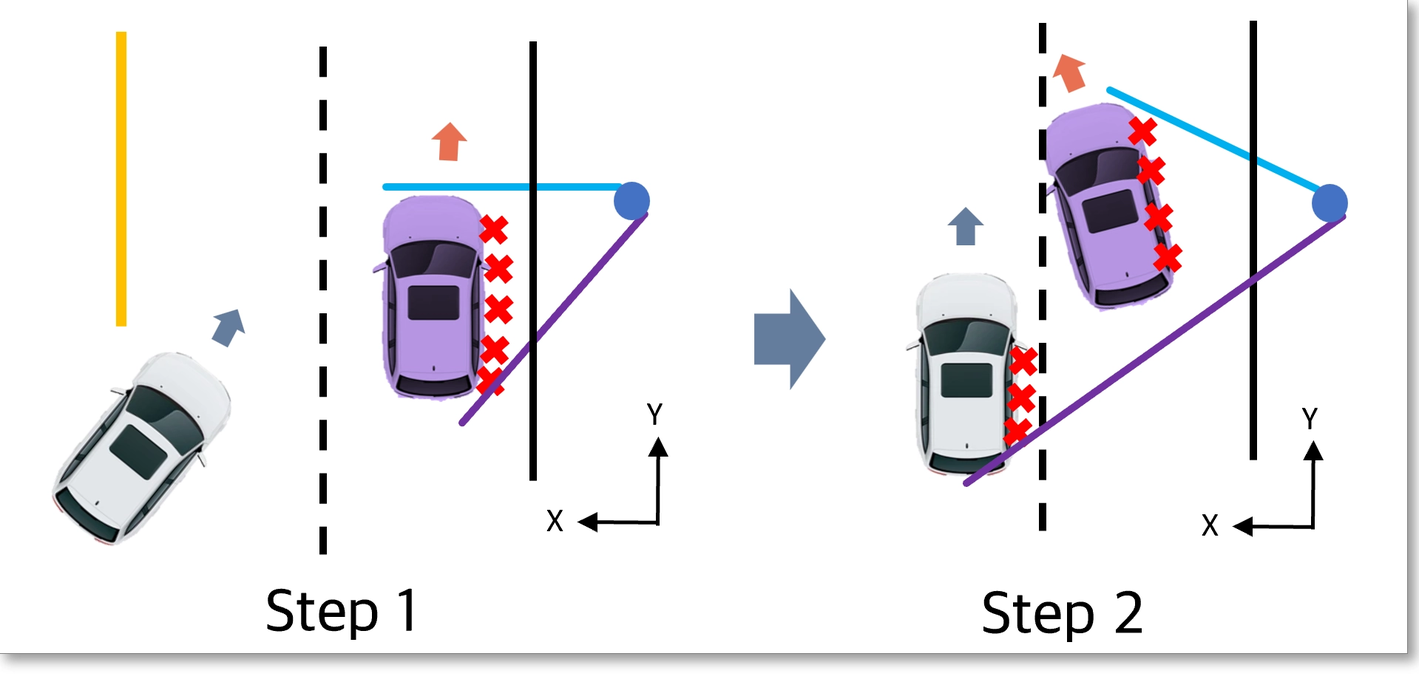
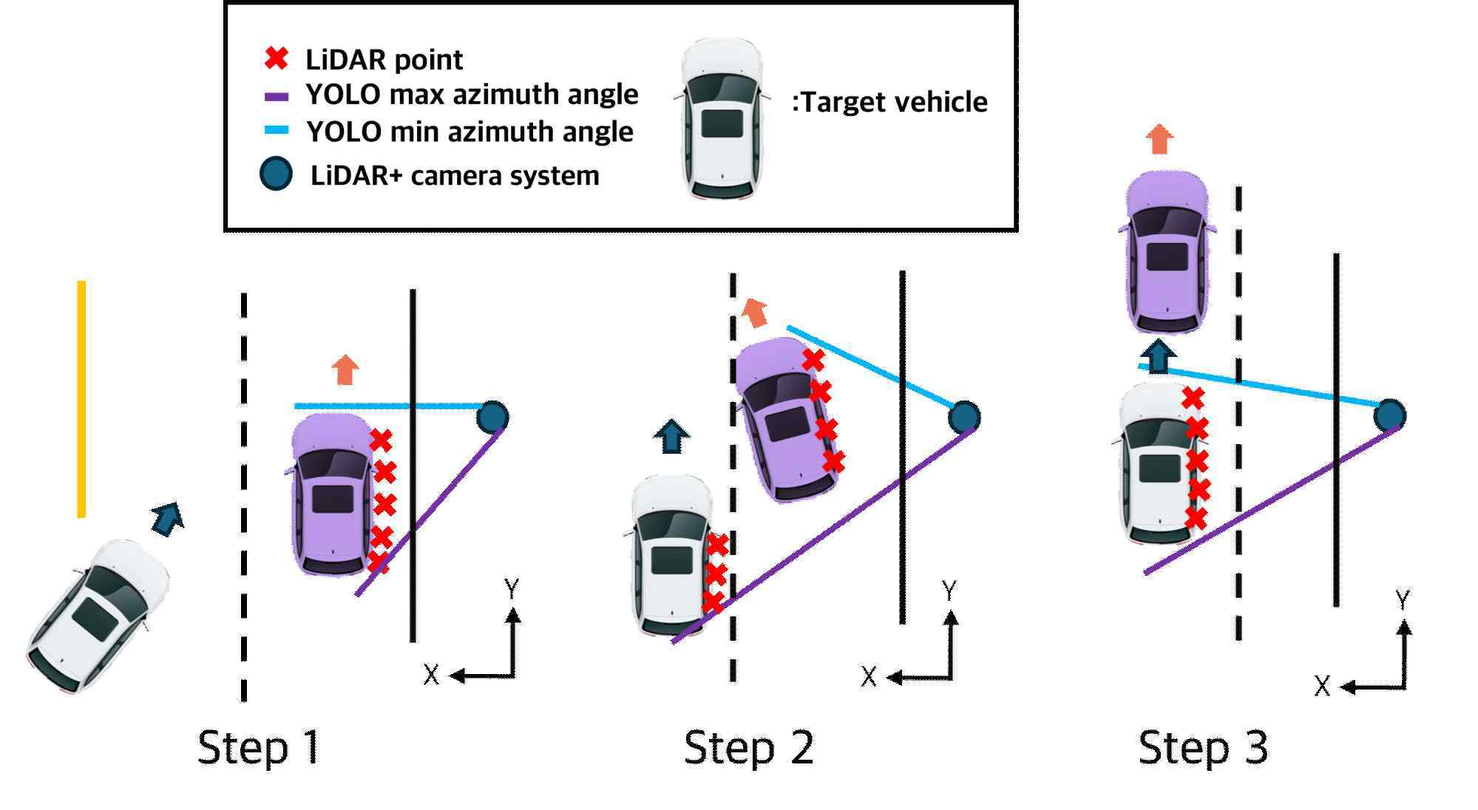
Sync sensor fusion guide and IMU navigation evidence

diff --git a/portfolio/projects/sensor-fusion.html b/portfolio/projects/sensor-fusion.html
@@ -8,10 +8,10 @@
   <link rel="canonical" href="https://neberrein.github.io/projects/sensor-fusion.html">
   <meta property="og:type" content="website"><meta property="og:title" content="강화학습 기반 카메라-라이다 센서융합 차량 추적 | 곽민재"><meta property="og:description" content="상황별 관측 후보를 DQN으로 선택하고 IMM으로 차량 상태를 추정한 석사 연구"><meta property="og:url" content="https://neberrein.github.io/projects/sensor-fusion.html"><meta property="og:image" content="https://neberrein.github.io/assets/images/sensor-fusion-field.png">
   <link rel="icon" href="../assets/favicon.svg" type="image/svg+xml">
-  <link rel="stylesheet" href="../assets/site.css?v=layout-20260913">
+  <link rel="stylesheet" href="../assets/site.css?v=research-20260913">
   <script src="../assets/site.js" defer></script>
 </head>
-<body>
+<body class="sensor-fusion-page">
 <a class="skip-link" href="#main">본문 바로가기</a>
 <header class="site-header detail-header"><a class="brand" href="../index.html">곽민재 <span>PORTFOLIO</span></a><nav class="primary-nav" aria-label="상세 페이지 메뉴"><a href="../index.html#projects">프로젝트</a><a href="../index.html#research">논문, 특허</a></nav></header>
 <main id="main">
@@ -19,72 +19,75 @@
     <a class="back-link" href="../index.html#projects">← 프로젝트 목록</a>
     <p class="case-label">교육부, 한국연구재단 석사과정생 연구장려금</p>
     <h1>강화학습 기반 카메라-라이다 센서융합 차량 추적</h1>
-    <p class="case-subtitle">교차로 도로변의 단안 카메라와 2D 라이다로 차량을 검출하고, 센서 상태에 따라 가장 신뢰할 수 있는 코너점을 골라 중심 위치와 속도, 진행방향을 추정한 연구.</p>
+    <p class="case-subtitle">교차로 도로변의 단안 카메라와 2D 라이다로 차량을 검출하고, DQN이 상황에 적합한 차량 코너점을 선택하도록 설계했습니다. 선택된 관측값은 IMM에 입력해 차량의 중심 위치, 속도와 진행방향을 연속 추정했습니다.</p>
     <aside class="credential-panel" aria-label="연구과제 정보">
       <div><span>연구과제</span><strong>교차로 차량 움직임 추정을 위한 강화학습 기반의 단안 카메라와 2D 라이다 센서 융합 알고리즘 개발</strong></div>
       <dl><div><dt>지원기관</dt><dd>교육부, 한국연구재단</dd></div><div><dt>사업</dt><dd>석사과정생 연구장려금</dd></div><div><dt>기간</dt><dd>2024.09–2025.08</dd></div><div><dt>역할</dt><dd>연구책임자</dd></div></dl>
     </aside>
-    <dl class="case-facts"><div><dt>연구 범위</dt><dd>기획, 알고리즘, 시뮬레이션, 현장검증</dd></div><div><dt>핵심 기술</dt><dd>YOLO, DBSCAN, RANSAC, DQN, IMM</dd></div><div><dt>검증</dt><dd>MATLAB 시뮬레이션, 서울 마곡동 교차로</dd></div><div><dt>성과</dt><dd>석사학위논문, ICROS 제1저자 발표, 특허</dd></div></dl>
+    <dl class="case-facts"><div><dt>연구 범위</dt><dd>기획, 알고리즘, 시뮬레이션, 현장검증</dd></div><div><dt>핵심 기술</dt><dd>YOLO, DBSCAN, RANSAC, DQN, IMM</dd></div><div><dt>검증</dt><dd>MATLAB 시뮬레이션, 서울 마곡동 교차로</dd></div><div><dt>성과</dt><dd>석사학위논문, ICROS 2025 제1저자 구두발표, 특허 출원 공동발명</dd></div></dl>
   </section>
 
   <section class="case-section"><div class="section-shell case-layout"><div><span class="case-section-label">01 / QUESTION</span><h2>연구 문제</h2></div><div class="case-body">
-    <p>고정 규칙 기반 융합은 가림, 급가감속, 라이다 이상치처럼 관측 품질이 바뀌는 구간에서 잘못된 후보를 계속 선택했다. 핵심은 센서를 하나로 합치는 일이 아니라, 매 시점 어떤 관측을 믿을지 결정하는 문제였다.</p>
-    <div class="issue-grid"><article><span>가림</span><strong>앞차와 뒤차 관측의 혼입</strong><p>표적 차량의 일부가 가려지며 다른 차량의 점군을 선택하는 현상</p></article><article><span>비동기</span><strong>라이다 10 Hz, 카메라 30 fps</strong><p>동일 시점으로 보이는 두 센서 사이의 입력 시차 발생</p></article><article><span>이상치</span><strong>단일 후보 의존의 취약성</strong><p>RANSAC 교점이나 최근접점 하나를 고정 사용했을 때 오류 지속</p></article><article><span>비용</span><strong>저가 센서 구성의 성능 검증</strong><p>단안 카메라와 2D 라이다만으로 현장 상태추정 성능 확보</p></article></div>
+    <p>카메라와 라이다를 함께 사용해도 차량의 가림, 자세 변화와 센서 노이즈에 따라 각 관측 방법의 정확도가 달라졌습니다. 핵심은 센서를 단순히 하나로 합치는 것이 아니라, 매 시점 어떤 관측을 차량 위치 추정에 사용할지 결정하는 문제였습니다.</p>
+    <div class="issue-grid"><article><span>가림</span><strong>목표 차량 관측 손실</strong><p>다른 차량이 표적의 일부 또는 전체를 가리면서 카메라와 라이다 관측 품질이 달라짐</p></article><article><span>자세 변화</span><strong>보이는 차량 면이 달라짐</strong><p>직진과 회전, 센서 상대 위치에 따라 라이다가 관측하는 차량 면과 영상 경계가 계속 변화</p></article><article><span>이상치</span><strong>단일 후보 의존의 취약성</strong><p>하나의 코너 계산 방법을 고정 사용하면 잘못된 관측이 이후 추적 오차로 이어질 수 있음</p></article><article><span>비용</span><strong>저비용 센서 구성</strong><p>단안 카메라와 2D 라이다만으로 실제 교차로에서 차량 상태추정 성능을 검증</p></article></div>
   </div></div></section>
 
-  <section class="case-section"><div class="section-shell case-layout"><div><span class="case-section-label">02 / SYSTEM</span><h2>판단 구조</h2></div><div class="case-body">
-    <figure class="research-figure framework-figure"><img loading="lazy" decoding="async" src="../assets/images/sensor-framework.png" alt="카메라와 라이다 관측 후보를 DQN이 선택하고 IMM이 차량 상태를 추정하는 전체 프레임워크"><figcaption>제안 프레임워크. DQN의 관측 선택 결과로 IMM의 CVP와 CTP 운동모델을 갱신</figcaption></figure>
-    <div class="flow-ribbon" aria-label="센서융합 차량 추적 처리 흐름"><article><span>01</span><strong>차량 검출</strong><small>YOLO와 2D 라이다</small></article><b>→</b><article><span>02</span><strong>코너점 계산</strong><small>센서와 예측 기반 5개</small></article><b>→</b><article><span>03</span><strong>기준점 선택</strong><small>DQN의 상황별 판단</small></article><b>→</b><article><span>04</span><strong>연속 추정</strong><small>IMM의 CVP, CTP 결합</small></article><b>→</b><article><span>05</span><strong>차량 상태</strong><small>중심, 속도, 진행방향</small></article></div>
-    <div class="media-pair sensor-setup-pair"><figure class="research-figure"><img src="../assets/images/sensor-roadside-system.png" alt="상단 단안 카메라와 하단 2D 라이다로 구성한 도로변 센서 플랫폼"><figcaption>도로변 센서 플랫폼. 상단 단안 카메라, 하단 Slamtec Mapper 2D 라이다</figcaption></figure><figure class="research-figure"><img src="../assets/images/sensor-ground-truth-system.png" alt="차량 지붕 중앙 RTK-GPS 안테나와 수신기 구성"><figcaption>시험차량. 지붕 중앙 RTK-GPS 안테나로 차량 중심 기준값 취득</figcaption></figure></div>
+  <section class="case-section"><div class="section-shell case-layout"><div><span class="case-section-label">02 / SYSTEM</span><h2>차량 추적 프레임워크</h2></div><div class="case-body">
+    <figure class="research-figure framework-figure"><img loading="lazy" decoding="async" src="../assets/images/sensor-framework.png" alt="카메라와 라이다 관측 후보를 DQN이 선택하고 IMM이 차량 상태를 추정하는 전체 프레임워크"><figcaption>카메라와 라이다로 차량을 검출하고 여러 코너 후보를 생성한 뒤, DQN이 현재 센서 상태에 적합한 후보를 선택합니다. 선택된 코너점은 IMM의 측정값으로 사용해 차량 중심의 위치, 속도와 진행방향을 추정합니다.</figcaption></figure>
+    <div class="flow-ribbon" aria-label="센서융합 차량 추적 처리 흐름"><article><span>01</span><strong>차량 검출</strong><small>YOLO와 2D 라이다</small></article><b>→</b><article><span>02</span><strong>코너점 계산</strong><small>센서와 예측 기반 5개 후보</small></article><b>→</b><article><span>03</span><strong>기준점 선택</strong><small>DQN의 상황별 판단</small></article><b>→</b><article><span>04</span><strong>연속 추정</strong><small>IMM의 CVP, CTP 결합</small></article><b>→</b><article><span>05</span><strong>차량 상태</strong><small>중심, 속도, 진행방향</small></article></div>
   </div></div></section>
 
   <section class="case-section"><div class="section-shell case-layout"><div><span class="case-section-label">03 / OBSERVATION</span><h2>상황별 차량 코너점 추정</h2></div><div class="case-body">
-    <p>추적 기준점은 차량의 <strong>전방 우측 모서리</strong>로 통일했다. 카메라 바운딩박스의 양쪽 경계와 라이다가 검출한 차량 면이 만나는 위치이며, 차량이 회전해 보이는 면이 달라져도 동일한 물리 지점을 비교하기 위한 선택이다.</p>
+    <p>차량 위치를 프레임마다 일관되게 비교하기 위해 전방 우측 코너를 공통 기준점으로 사용했습니다. 다만 차량의 방향, 가림과 센서 관측 상태에 따라 같은 코너를 가장 잘 표현하는 정보가 달라지므로, 5개의 코너 후보를 계산하고 DQN이 현재 상황에 적합한 하나를 선택하도록 구성했습니다.</p>
     <div class="observation-layout">
-      <figure class="research-figure"><img src="../assets/images/sensor-vehicle-geometry.png" alt="차량 중심과 전방 우측 모서리 기준점의 기하 관계"><figcaption>센서가 찾는 모서리와 최종 추정 대상인 차량 중심의 관계</figcaption></figure>
-      <div class="observation-copy"><h3>한 가지 식에 고정하지 않은 이유</h3><p>차량의 두 면이 모두 보이는지, 영상의 어느 경계가 선명한지, 가림으로 센서값을 쓸 수 있는지가 프레임마다 달라진다. 따라서 같은 코너점을 서로 다른 방식으로 계산하고 DQN이 현재 입력에 맞는 하나를 선택하도록 구성했다.</p><div class="formula-inline">z = [x<sub>c</sub> + r cos(α−θ), y<sub>c</sub> + r sin(α−θ)]<sup>T</sup></div><small>선택된 코너점 z를 차량 폭, 길이, 진행방향으로 보정해 중심 상태로 변환</small></div>
+      <figure class="research-figure"><img loading="lazy" decoding="async" src="../assets/images/sensor-vehicle-geometry.png" alt="차량 중심과 전방 우측 모서리 기준점의 기하 관계"><figcaption>차량 중심과 추적 기준점으로 사용한 전방 우측 코너의 기하 관계</figcaption></figure>
+      <div class="observation-copy"><h3>한 가지 식에 고정하지 않은 이유</h3><p>차량의 두 면이 모두 보이는지, 영상의 어느 경계가 유효한지, 가림으로 센서값이 불안정한지가 프레임마다 달라집니다. 따라서 같은 전방 우측 코너를 여러 방식으로 계산하고 DQN이 현재 센서 상태에 맞는 후보를 선택하도록 했습니다.</p><p>선택된 코너점은 IMM의 측정값으로 사용하며, CVP와 CTP 차량 운동모델을 결합해 중심 위치, 속도와 진행방향을 추정했습니다.</p></div>
     </div>
     <div class="candidate-visual-grid" role="list" aria-label="차량 코너점 계산 방법 다섯 가지">
       <article role="listitem">
         <svg viewBox="0 0 260 150" role="img" aria-label="차량 전면과 측면의 RANSAC 두 선이 만나는 코너점"><polygon points="225,72 123,22 123,128" fill="#dfece7"/><rect x="78" y="35" width="54" height="82" rx="14" fill="#d7dde2" stroke="#10283f" stroke-width="3"/><rect x="88" y="48" width="34" height="22" rx="7" fill="#91a3b2"/><path d="M48 30H155M132 20V132" stroke="#d39a1d" stroke-width="5"/><g fill="#d83b32"><circle cx="104" cy="30" r="5"/><circle cx="120" cy="30" r="5"/><circle cx="132" cy="48" r="5"/><circle cx="132" cy="65" r="5"/><circle cx="132" cy="82" r="5"/></g><circle cx="132" cy="30" r="8" fill="#148d87"/><circle cx="225" cy="72" r="10" fill="#3f72bd" stroke="#10283f" stroke-width="3"/></svg>
-        <span>01</span><strong>RANSAC 두 선의 교점</strong><p>차량의 전면과 측면이 함께 보일 때</p>
+        <span>01</span><strong>RANSAC 두 선의 교차점</strong><p>차량 전면과 측면을 나타내는 두 개의 유효 선 모델이 확보될 때</p>
       </article>
       <article role="listitem">
         <svg viewBox="0 0 260 150" role="img" aria-label="YOLO 우측 경계와 RANSAC 차량 면이 만나는 코너점"><polygon points="225,48 155,43 155,112" fill="#dfece7"/><rect x="55" y="57" width="105" height="52" rx="15" fill="#d7dde2" stroke="#10283f" stroke-width="3"/><rect x="70" y="66" width="28" height="34" rx="6" fill="#91a3b2"/><path d="M160 40V118" stroke="#d39a1d" stroke-width="5"/><path d="M225 48L160 105" stroke="#6f43a3" stroke-width="5"/><g fill="#d83b32"><circle cx="160" cy="58" r="5"/><circle cx="160" cy="75" r="5"/><circle cx="160" cy="92" r="5"/></g><circle cx="160" cy="105" r="8" fill="#148d87"/><circle cx="225" cy="48" r="10" fill="#3f72bd" stroke="#10283f" stroke-width="3"/></svg>
-        <span>02</span><strong>YOLO 우측 경계와 RANSAC 선</strong><p>영상 우측 경계가 더 선명할 때</p>
+        <span>02</span><strong>YOLO 최대 방위각 + RANSAC</strong><p>YOLO 최대 방위각 경계와 RANSAC 차량 면을 함께 사용할 때</p>
       </article>
       <article role="listitem">
         <svg viewBox="0 0 260 150" role="img" aria-label="YOLO 좌측 경계와 RANSAC 차량 면이 만나는 코너점"><polygon points="225,98 145,34 145,116" fill="#dfece7"/><rect x="92" y="28" width="58" height="92" rx="15" fill="#d7dde2" stroke="#10283f" stroke-width="3"/><rect x="102" y="42" width="38" height="24" rx="6" fill="#91a3b2"/><path d="M150 28V126" stroke="#d39a1d" stroke-width="5"/><path d="M225 98L150 34" stroke="#18a6cf" stroke-width="5"/><g fill="#d83b32"><circle cx="150" cy="52" r="5"/><circle cx="150" cy="71" r="5"/><circle cx="150" cy="90" r="5"/></g><circle cx="150" cy="34" r="8" fill="#148d87"/><circle cx="225" cy="98" r="10" fill="#3f72bd" stroke="#10283f" stroke-width="3"/></svg>
-        <span>03</span><strong>YOLO 좌측 경계와 RANSAC 선</strong><p>영상 좌측 경계가 더 선명할 때</p>
+        <span>03</span><strong>YOLO 최소 방위각 + RANSAC</strong><p>YOLO 최소 방위각 경계와 RANSAC 차량 면을 함께 사용할 때</p>
       </article>
       <article role="listitem">
         <svg viewBox="0 0 260 150" role="img" aria-label="회전 차량의 횡방향 최근접 라이다 점"><g transform="rotate(-28 104 84)"><rect x="64" y="52" width="90" height="55" rx="15" fill="#d7dde2" stroke="#10283f" stroke-width="3"/><rect x="82" y="60" width="28" height="38" rx="6" fill="#91a3b2"/></g><g fill="#d83b32"><circle cx="152" cy="54" r="5"/><circle cx="164" cy="64" r="5"/><circle cx="173" cy="77" r="5"/></g><path d="M212 35V112" stroke="#3f72bd" stroke-width="2"/><path d="M212 81H174" stroke="#148d87" stroke-width="4" stroke-dasharray="5 4"/><circle cx="174" cy="81" r="8" fill="#148d87"/><circle cx="212" cy="35" r="10" fill="#3f72bd" stroke="#10283f" stroke-width="3"/></svg>
-        <span>04</span><strong>횡방향 최근접 라이다 점</strong><p>회전 중에도 가까운 물리점이 유지될 때</p>
+        <span>04</span><strong>횡방향 최근접 라이다 점</strong><p>차량 회전 시에도 사용할 수 있는 물리적 기준점이 필요할 때</p>
       </article>
       <article role="listitem">
         <svg viewBox="0 0 260 150" role="img" aria-label="가림 중 IMM 운동모델이 예측한 코너점"><rect x="55" y="55" width="110" height="52" rx="15" fill="#d7dde2" stroke="#10283f" stroke-width="3" opacity=".55"/><rect x="70" y="64" width="30" height="34" rx="6" fill="#91a3b2" opacity=".65"/><path d="M38 121C84 105 131 91 188 78" fill="none" stroke="#7b8b96" stroke-width="3" stroke-dasharray="7 6"/><circle cx="166" cy="81" r="9" fill="#148d87"/><circle cx="215" cy="50" r="10" fill="#3f72bd" stroke="#10283f" stroke-width="3"/><path d="M215 50L166 81" stroke="#3f72bd" stroke-width="2" stroke-dasharray="4 5"/><text x="163" y="70" text-anchor="middle" font-family="Georgia,serif" font-size="15" fill="#10283f">x̂ₖ|ₖ₋₁</text></svg>
-        <span>05</span><strong>IMM 예측점</strong><p>가림이나 이상치로 센서 관측이 불안정할 때</p>
+        <span>05</span><strong>IMM 예측점</strong><p>가림이나 센서 이상치로 현재 관측이 불안정할 때</p>
       </article>
     </div>
+    <aside class="selection-note"><h3>DQN 선택 기준</h3><p>DQN은 라이다 특징점, YOLO 방위각 변화, 라이다 포인트 수와 평균거리 등 현재 센서 상태를 입력받아 5개 후보 중 하나를 선택했습니다.</p></aside>
   </div></div></section>
 
   <section class="case-section alt-section"><div class="section-shell case-layout"><div><span class="case-section-label">04 / SIMULATION</span><h2>시뮬레이션 결과</h2></div><div class="case-body">
-    <div class="plot-grid"><figure class="plot-card"><img src="../assets/images/sensor-sim-corner.png" alt="좌회전 시뮬레이션의 코너점 추정"><figcaption><strong>상황별 기준점 선택</strong> 기준 코너점과 프레임별 선택 결과의 궤적</figcaption></figure><figure class="plot-card"><img src="../assets/images/sensor-sim-center.png" alt="좌회전 시뮬레이션의 중심 위치 추정"><figcaption><strong>IMM 위치추정</strong> 전방 우측 코너점을 차량 중심 상태로 변환한 궤적</figcaption></figure></div>
-    <div class="table-wrap"><table class="metric-table"><thead><tr><th>대표 시나리오</th><th>위치 RMSE</th><th>속도 RMSE</th><th>진행방향 RMSE</th></tr></thead><tbody><tr><td>좌회전</td><td><strong>0.054 m</strong></td><td>0.468 m/s</td><td>0.041°</td></tr><tr><td>직진</td><td><strong>0.012 m</strong></td><td>0.419 m/s</td><td>0.001°</td></tr></tbody></table></div>
+    <figure class="research-figure simulation-environment"><img loading="lazy" decoding="async" src="../assets/images/sensor-simulation-environment.png" alt="MATLAB 교차로 시뮬레이션에서 차량 면과 라이다 빔의 교차점 및 카메라 방위각을 생성한 화면"><figcaption>MATLAB 차량-센서 시뮬레이션 환경. 실제 2D 라이다의 센서 특성과 차량 기하를 반영해 라이다 포인트와 카메라 방위각을 생성하고, Pure Pursuit로 직진과 좌회전 차량 거동을 구현했습니다.</figcaption></figure>
+    <div class="plot-grid"><figure class="plot-card"><img loading="lazy" decoding="async" src="../assets/images/sensor-sim-corner.png" alt="좌회전 시뮬레이션의 코너점 추정"><figcaption><strong>DQN 기반 차량 코너 추정</strong> 실제 코너와 프레임별 선택 결과 비교</figcaption></figure><figure class="plot-card"><img loading="lazy" decoding="async" src="../assets/images/sensor-sim-center.png" alt="좌회전 시뮬레이션의 중심 위치 추정"><figcaption><strong>IMM 기반 차량 중심 위치 추정</strong> 실제 차량 중심과 추정 궤적 비교</figcaption></figure></div>
+    <div class="table-wrap"><table class="metric-table"><thead><tr><th>대표 시나리오</th><th>위치 RMSE</th><th>속도 RMSE</th><th>진행방향 RMSE</th></tr></thead><tbody><tr><td>다중 차량 좌회전</td><td><strong>0.054 m</strong></td><td>0.468 m/s</td><td>0.041°</td></tr><tr><td>단일 차량 직진</td><td><strong>0.012 m</strong></td><td>0.419 m/s</td><td>0.001°</td></tr></tbody></table></div>
     <p class="method-note">센서 사양과 차량 기하를 반영한 MATLAB 환경에서 DQN 정책 학습과 IMM 상태추정 성능 검증.</p>
   </div></div></section>
 
   <section class="case-section"><div class="section-shell case-layout"><div><span class="case-section-label">05 / FIELD TEST</span><h2>현장검증</h2></div><div class="case-body">
-    <div class="field-context"><figure class="research-figure"><img src="../assets/images/sensor-roadside-system.png" alt="교차로 현장에 설치한 카메라와 2D 라이다 센서 시스템"><figcaption>현장 센서 시스템</figcaption></figure><figure class="research-figure"><img src="../assets/images/sensor-ground-truth-system.png" alt="RTK-GPS를 설치한 현장 시험차량"><figcaption>RTK-GPS 기준 시험차량</figcaption></figure><figure class="research-figure"><img src="../assets/images/sensor-test-site.png" alt="서울 마곡동 교차로 시험구간의 차량 진행경로"><figcaption>서울 마곡동 교차로. 직진, 좌회전, 연속 다중차량 시나리오</figcaption></figure></div>
-    <div class="stacked-field-video synced-video-grid"><figure class="video-card"><video autoplay muted loop playsinline controls preload="metadata" data-sync-group="sensor-field-icros" poster="../assets/images/sensor-field-detection.png"><source src="../assets/videos/sensor-camera-icros.mp4" type="video/mp4">브라우저에서 영상을 재생할 수 없습니다.</video><figcaption><strong>상단 단안 카메라</strong> YOLO 차량 검출과 바운딩박스 방위각</figcaption></figure><figure class="video-card"><video autoplay muted loop playsinline controls preload="metadata" data-sync-group="sensor-field-icros" poster="../assets/images/sensor-field-corner.png"><source src="../assets/videos/sensor-lidar-icros.mp4" type="video/mp4">브라우저에서 영상을 재생할 수 없습니다.</video><figcaption><strong>하단 2D 라이다</strong> 점군, 차량 면과 코너점 추정</figcaption></figure></div>
-    <div class="plot-grid three"><figure class="plot-card"><img src="../assets/images/sensor-field-corner.png" alt="현장검증 차량 코너점 추정 결과"><figcaption><strong>선택된 코너점</strong> 현장 기준값과 프레임별 선택 결과</figcaption></figure><figure class="plot-card"><img src="../assets/images/sensor-field-center.png" alt="현장검증 차량 중심 위치 추정 결과"><figcaption><strong>IMM 위치추정</strong> RTK-GPS 기준 궤적과 차량 중심 추정</figcaption></figure><figure class="plot-card"><img src="../assets/images/sensor-field-state.png" alt="현장검증 차량 속도와 진행방향 추정 결과"><figcaption><strong>상태추정</strong> 속도와 진행방향의 시간축 비교</figcaption></figure></div>
+    <p>시뮬레이션에서 검증한 알고리즘을 서울 강서구 마곡동의 실제 교차로에 적용했습니다. 도로변에는 단안 카메라와 2D 라이다 센서 플랫폼을 설치하고, 시험차량에는 RTK-GPS를 장착해 차량 중심의 기준 위치를 취득했습니다.</p>
+    <div class="field-context"><figure class="research-figure"><img loading="lazy" decoding="async" src="../assets/images/sensor-test-site.png" alt="서울 강서구 마곡동 4방향 교차로의 시험구간"><figcaption>서울 강서구 마곡동 4방향 교차로 / 직진, 좌회전과 연속 다중차량 시나리오 수행</figcaption></figure><figure class="research-figure"><img loading="lazy" decoding="async" src="../assets/images/sensor-roadside-system.png" alt="도로변에 설치한 단안 카메라와 Slamtec Mapper 2D 라이다"><figcaption>도로변 센서 플랫폼 / 단안 카메라와 Slamtec Mapper 2D 라이다</figcaption></figure><figure class="research-figure"><img loading="lazy" decoding="async" src="../assets/images/sensor-ground-truth-system.png" alt="차량 루프 중앙에 RTK-GPS 안테나를 설치한 시험차량"><figcaption>RTK-GPS 시험차량 / 차량 루프 중앙 안테나로 차량 중심 Ground Truth 취득</figcaption></figure></div>
+    <div class="plot-grid sensor-inputs"><figure class="plot-card"><img loading="lazy" decoding="async" src="../assets/images/sensor-field-camera-input.png" alt="동일 시점의 카메라 입력에서 검출한 차량 영역과 대응 라이다 점"><figcaption><strong>카메라 입력</strong> YOLO로 검출한 차량 영역</figcaption></figure><figure class="plot-card"><img loading="lazy" decoding="async" src="../assets/images/sensor-field-lidar-input.png" alt="카메라 검출 차량에 대응하는 동일 시점 2D 라이다 포인트"><figcaption><strong>라이다 입력</strong> 차량 영역에 대응하는 2D 라이다 포인트</figcaption></figure></div>
+    <p class="method-note">동일 시점 센서 입력 / 카메라에서 검출한 차량 영역과 이에 대응하는 2D 라이다 포인트를 함께 사용해 차량 후보를 구성했습니다.</p>
+    <div class="plot-grid three"><figure class="plot-card"><img loading="lazy" decoding="async" src="../assets/images/sensor-field-corner.png" alt="현장검증 차량 코너점 추정 결과"><figcaption><strong>차량 코너 추정 결과</strong> Ground Truth와 DQN이 선택한 전방 우측 코너의 궤적 비교</figcaption></figure><figure class="plot-card"><img loading="lazy" decoding="async" src="../assets/images/sensor-field-center.png" alt="현장검증 차량 중심 위치 추정 결과"><figcaption><strong>차량 중심 위치 추정</strong> RTK-GPS 기준 차량 중심과 IMM 추정 궤적 비교</figcaption></figure><figure class="plot-card"><a href="../assets/images/sensor-field-state.png" target="_blank" rel="noopener" aria-label="차량 상태 추정 그래프 원본 크게 보기"><img loading="lazy" decoding="async" src="../assets/images/sensor-field-state.png" alt="실제값과 IMM의 속도 및 진행방향 추정 결과, 빨강 실제값 파랑 추정값"></a><figcaption><strong>차량 상태 추정</strong> 실제값과 IMM의 속도 및 진행방향 추정 결과. 빨강: 실제값, 파랑: 추정값</figcaption></figure></div>
     <div class="table-wrap"><table class="metric-table"><thead><tr><th>현장 시나리오</th><th>위치 RMSE</th><th>속도 RMSE</th><th>진행방향 RMSE</th></tr></thead><tbody><tr><td>좌회전</td><td><strong>0.092 m</strong></td><td>0.224 m/s</td><td>3.507°</td></tr><tr><td>직진</td><td><strong>0.078 m</strong></td><td>0.401 m/s</td><td>2.554°</td></tr><tr><td>연속 다중차량 좌회전</td><td><strong>0.147 m</strong></td><td>0.397 m/s</td><td>3.074°</td></tr></tbody></table></div>
   </div></div></section>
 
   <section class="case-section alt-section"><div class="section-shell case-layout"><div><span class="case-section-label">06 / OCCLUSION</span><h2>가림 대응</h2></div><div class="case-body">
-    <div class="occlusion-steps two-step"><article><span>STEP 1</span><strong>완전 가림</strong><p>앞 차량이 표적 차량을 완전히 가리면서 카메라와 라이다 관측이 앞 차량 쪽으로 이동</p></article><article><span>STEP 2</span><strong>부분 가림 뒤 재검출</strong><p>표적이 다시 보이는 순간 최신 센서값으로 코너점을 선택해 실측 궤적으로 복귀</p></article></div>
-    <div class="occlusion-grid"><figure class="research-figure"><img src="../assets/images/sensor-occlusion-logic.png" alt="완전 가림과 부분 가림 뒤 재검출 과정을 나타낸 그림"><figcaption><span class="figure-legend"><i class="red-x">×</i>라이다 점 <i class="purple-line"></i>YOLO 방위각 <i class="blue-dot"></i>센서 위치</span></figcaption></figure><figure class="research-figure"><img src="../assets/images/sensor-occlusion-result.png" alt="가림 뒤 제안 방법과 기존 방법의 차량 궤적 회복 비교"><figcaption><span class="figure-legend"><i class="red"></i>실측 궤적 <i class="blue"></i>제안 방법 <i class="magenta"></i>기존 방법</span></figcaption></figure></div>
-    <div class="recovery-comparison"><article><span>기존 방법</span><strong>이전 예측에 계속 의존</strong><p>가림 차량 쪽으로 벗어난 뒤 표적 차량의 궤적으로 돌아오지 못함</p></article><article><span>제안 방법</span><strong>가림 뒤 최신 관측으로 복귀</strong><p>가림 중에는 IMM 예측으로 추적을 이어가고, 재검출 뒤 실제 센서값으로 오차를 줄임</p></article></div>
+    <div class="occlusion-steps"><article><span>STEP 1</span><strong>부분 가림</strong><p>다른 차량이 목표 차량 일부를 가리며 센서 관측 품질이 저하</p></article><article><span>STEP 2</span><strong>완전 가림</strong><p>목표 차량의 직접 관측이 사라지며 IMM 예측으로 추적을 지속</p></article><article><span>STEP 3</span><strong>재검출</strong><p>목표 차량이 다시 나타나면 최신 센서 관측으로 전환해 실제 궤적으로 복귀</p></article></div>
+    <div class="occlusion-grid"><figure class="research-figure"><a href="../assets/images/sensor-occlusion-logic.png" target="_blank" rel="noopener" aria-label="가림 대응 3단계 그림 원본 크게 보기"><img loading="lazy" decoding="async" src="../assets/images/sensor-occlusion-logic.png" alt="부분 가림, 완전 가림, 재검출의 3단계 차량 관측 변화"></a><figcaption><span class="figure-legend"><i class="red-x">×</i>라이다 점 <i class="purple-line"></i>YOLO 방위각 <i class="blue-dot"></i>센서 위치</span></figcaption></figure><figure class="research-figure"><img loading="lazy" decoding="async" src="../assets/images/sensor-occlusion-result.png" alt="가림 뒤 제안 방법과 기존 방법의 차량 궤적 회복 비교"><figcaption><span class="figure-legend"><i class="red"></i>실측 궤적 <i class="blue"></i>제안 방법 <i class="magenta"></i>기존 방법</span></figcaption></figure></div>
+    <div class="recovery-comparison"><article><span>기존 방법</span><strong>이전 예측에 계속 의존</strong><p>가림으로 관측 상태가 바뀐 뒤 목표 차량의 실제 궤적으로 충분히 복귀하지 못함</p></article><article><span>제안 방법</span><strong>가림 뒤 최신 관측으로 복귀</strong><p>가림 중에는 IMM 예측을 활용하고, 재검출 뒤 현재 센서 상태에 맞는 후보를 선택해 추적을 회복</p></article></div>
   </div></div></section>
 
   <section class="case-section"><div class="section-shell case-layout"><div><span class="case-section-label">07 / RESULT</span><h2>비교 결과</h2></div><div class="case-body">
@@ -93,9 +96,9 @@
     <p class="method-note">비교 방법 수치는 학위논문 표의 직접 기재값이 아니라 동일 데이터로 별도 계산한 평균. 시뮬레이션에서 학습한 DQN 정책은 현장 데이터에 추가 학습 없이 적용했으며, 도메인별로 IMM 잡음 공분산만 조정.</p>
   </div></div></section>
 
-  <section class="case-section"><div class="section-shell case-layout"><div><span class="case-section-label">08 / OWNERSHIP</span><h2>수행 범위</h2></div><div class="case-body"><ul class="noun-list"><li><strong>기획</strong>연구 질문 설정, 선행연구 분석, 과제계획 수립</li><li><strong>알고리즘</strong>차량 코너점 계산 방법 정의, DQN 상태, 행동, 보상 설계, IMM 결합</li><li><strong>환경</strong>MATLAB 시뮬레이션 구축, 센서 플랫폼 설치, 실험차량 운전</li><li><strong>검증</strong>RTK-GPS 기준 데이터 수집, 시뮬레이션과 현장 로그 분석</li><li><strong>성과화</strong>석사학위논문 작성, ICROS 제1저자 구두발표, 특허 출원 공동발명</li></ul></div></div></section>
+  <section class="case-section"><div class="section-shell case-layout"><div><span class="case-section-label">08 / OWNERSHIP</span><h2>수행 범위</h2></div><div class="case-body"><ul class="noun-list"><li><strong>기획</strong>연구 질문 설정, 선행연구 분석, 연구과제 계획 수립</li><li><strong>알고리즘</strong>차량 코너 후보 계산 방법 정의, DQN 상태, 행동, 보상 설계, IMM 기반 차량 상태추정</li><li><strong>환경</strong>MATLAB 시뮬레이션 구축, 센서 플랫폼 설치, 실험차량 운전</li><li><strong>검증</strong>RTK-GPS 기준 데이터 수집, 시뮬레이션과 현장 로그 분석</li><li><strong>성과화</strong>석사학위논문 작성, ICROS 2025 제1저자 구두발표, 특허 출원 공동발명</li></ul></div></div></section>
 
-  <section class="case-section"><div class="section-shell case-layout"><div><span class="case-section-label">09 / OUTPUT</span><h2>논문, 특허</h2></div><div class="case-body source-links"><a href="../assets/docs/master-thesis.pdf" target="_blank" rel="noopener"><span>석사학위논문</span><strong>교차로 도로변 센서 시스템을 위한 강화학습 기반의 단안 카메라와 2D 라이다 센서 융합 알고리즘</strong><em>98쪽 원문</em></a><a href="../assets/docs/icros-2025.pdf" target="_blank" rel="noopener"><span>ICROS 2025</span><strong>차량 추적을 위한 강화학습 기반 도로변 센서 시스템</strong><em>제1저자, 구두발표</em></a><div><span>특허</span><strong>차량 상태 추정 방법, 이를 수행하는 장치 및 기록매체</strong><em>10-2025-0136289</em></div></div></div></section>
+  <section class="case-section"><div class="section-shell case-layout"><div><span class="case-section-label">09 / OUTPUT</span><h2>논문 및 특허</h2></div><div class="case-body source-links"><a href="../assets/docs/master-thesis.pdf" target="_blank" rel="noopener"><span>석사학위논문</span><strong>교차로 도로변 센서 시스템을 위한 강화학습 기반의 단안 카메라와 2D 라이다 센서 융합 알고리즘<small>ICROS 연구를 실제 교차로의 단일 및 다중차량 현장검증까지 확장</small></strong><em>중앙대학교 대학원, 2025.08 / 98쪽 원문</em></a><a href="../assets/docs/icros-2025.pdf" target="_blank" rel="noopener"><span>ICROS 2025</span><strong>차량 추적을 위한 강화학습 기반 도로변 센서 시스템<small>DQN-IMM 차량 추적 프레임워크와 시뮬레이션 검증</small></strong><em>제1저자 구두발표</em></a><div><span>특허 출원</span><strong>차량 상태 추정 방법, 이를 수행하는 장치 및 기록매체</strong><em>공동발명 / 출원번호 10-2025-0136289</em></div></div></div></section>
   <nav class="next-project"><a class="section-shell" href="roboracer.html"><span>다음 프로젝트</span><strong>IFAC 2026 RoboRacer →</strong></a></nav>
 </main>
 <footer class="site-footer"><div class="section-shell"><span>© 2026 곽민재</span><div class="footer-links"><a href="mailto:tkkwak4@naver.com">tkkwak4@naver.com</a><a href="https://github.com/neberrein" target="_blank" rel="noopener">GitHub ↗</a></div></div></footer>

diff --git a/portfolio/projects/imu-lstm-fsm.html b/portfolio/projects/imu-lstm-fsm.html
@@ -8,7 +8,7 @@
   <link rel="canonical" href="https://neberrein.github.io/projects/imu-lstm-fsm.html">
   <meta property="og:type" content="website"><meta property="og:title" content="IMU 기반 LSTM-FSM 주행상태 판별 | 곽민재"><meta property="og:description" content="차량 내부 신호 없이 IMU 시계열로 전진, 후진, 정지를 판별한 실차 연구"><meta property="og:url" content="https://neberrein.github.io/projects/imu-lstm-fsm.html"><meta property="og:image" content="https://neberrein.github.io/assets/images/imu-lstm-fsm-pipeline.png">
   <link rel="icon" href="../assets/favicon.svg" type="image/svg+xml">
-  <link rel="stylesheet" href="../assets/site.css?v=layout-20260913">
+  <link rel="stylesheet" href="../assets/site.css?v=research-20260913">
   <script src="../assets/site.js" defer></script>
 </head>
 <body>
@@ -45,10 +45,14 @@
     <!-- TODO: 원본 사진 편집 시 보드 표기를 Raspberry Pi 4로 통일 -->
   </div></div></section>
 
-  <section class="case-section"><div class="section-shell case-layout"><div><span class="case-section-label">05 / CLASSIFICATION</span><h2>분류 결과</h2></div><div class="case-body">
+  <section class="case-section"><div class="section-shell case-layout"><div><span class="case-section-label">05 / CLASSIFICATION</span><h2>분류와 항법 검증</h2></div><div class="case-body">
     <div class="result-callout"><strong>99.52%</strong><div><h3>세 실차 경로 평균 후진 F1-score</h3><p>LSTM-FSM 기준. 농로와 농지의 실제 주행 진동을 포함한 결과</p></div></div>
-    <div class="plot-grid"><figure class="plot-card"><img src="../assets/images/imu-source-61.png" alt="대표 시험경로의 주행상태 혼동행렬"><figcaption><strong>대표 경로 분류결과</strong> 전진, 후진, 정지 혼동행렬</figcaption></figure><figure class="plot-card"><img src="../assets/images/imu-route-example.png" alt="농로와 농작지를 포함한 대표 주행경로의 GPS 기준 궤적"><figcaption><strong>대표 주행경로</strong> 농로 진입과 농작지 반복 주행을 포함한 GPS 기준 궤적</figcaption></figure></div>
+    <div class="plot-grid"><figure class="plot-card"><div class="source-plot-body"><img loading="lazy" decoding="async" src="../assets/images/imu-source-61.png" alt="실차 주행상태 혼동행렬, 전진 후진 정지 분류"></div><figcaption><strong>주행상태 분류결과</strong> 전진, 후진, 정지 혼동행렬</figcaption></figure><figure class="plot-card"><div class="source-plot-body"><img loading="lazy" decoding="async" src="../assets/images/imu-route-example.png" alt="농경지와 농로에서 실제 궤적과 제안 항법의 위치 추정 궤적 비교"></div><figcaption><strong>농경지와 농로의 위치 추정</strong> 실제 궤적과 제안 항법의 추정 궤적 비교</figcaption></figure></div>
     <p class="metric-source">논문에 수록된 세 실차 경로의 후진 F1-score를 산술평균한 값.</p>
+    <h3 class="result-title navigation-result-title">항법 위치 추정 결과</h3>
+    <p>주행상태 판별을 적용한 항법 시스템은 세 실차 경로에서 위치 RMSE 3 cm 이하를 기록했습니다. 이는 전진, 후진, 정지의 분류 정확도와 별도로, 실제 궤적에 대한 위치 추정 오차를 평가한 결과입니다.</p>
+    <div class="table-wrap"><table class="metric-table"><thead><tr><th>주행 조건</th><th>기존 항법 위치 RMSE</th><th>주행상태 판별 적용 후</th></tr></thead><tbody><tr><td>농경지 + 농로</td><td>0.070 m</td><td><strong>0.0157 m (1.57 cm)</strong></td></tr><tr><td>농로</td><td>0.054 m</td><td><strong>0.0238 m (2.38 cm)</strong></td></tr></tbody></table></div>
+    <p class="metric-source">나머지 실차 경로의 위치 RMSE는 0.0273 m (2.73 cm). 3 cm는 경로별 RMSE 기준이며 모든 시점의 최대 오차를 의미하지 않습니다.</p>
   </div></div></section>
 
   <section class="case-section alt-section"><div class="section-shell case-layout"><div><span class="case-section-label">06 / OWNERSHIP</span><h2>담당 범위</h2></div><div class="case-body"><ul class="noun-list"><li><strong>데이터</strong>IMU 전처리, 학습 시퀀스 구성, 주행상태 라벨 정의</li><li><strong>모델</strong>LSTM 구조 선정과 학습, 비교 분류기 평가</li><li><strong>판단</strong>전진, 후진, 정지 FSM 전환 규칙 설계</li><li><strong>통합</strong>ROS 기반 분류결과와 항법 모듈 연결</li><li><strong>검증</strong>농로와 농지 세 실차 경로 평가</li></ul></div></div></section>

diff --git a/portfolio/assets/site.css b/portfolio/assets/site.css
@@ -792,12 +792,30 @@ a.publication:hover strong, a.publication:focus-visible strong { color: #9ed0ff;
 .outcome-note { display:grid; gap:.4rem; font-size:.95rem; color:var(--slate); }
 .outcome-note strong { color:var(--charcoal); }
 
+/* Research evidence: retain original figures and compact existing sections. */
+.selection-note { margin-top:1.5rem; padding:1.25rem 1.5rem; border-left:3px solid var(--signal); background:var(--paper); }
+.selection-note h3 { margin:0 0 .5rem; font-size:1rem; }
+.selection-note p { margin:0; }
+.sensor-fusion-page .simulation-environment img { max-height:400px; }
+.sensor-fusion-page .source-links strong small { display:block; margin-top:.5rem; color:var(--slate); font-size:.8rem; font-weight:400; line-height:1.6; }
+.sensor-fusion-page .source-links a,.sensor-fusion-page .source-links > div { grid-template-columns:120px minmax(0,1fr) 170px; }
+.source-plot-body { overflow:hidden; background:#fff; }
+.source-plot-body img { display:block; width:100%; height:auto; aspect-ratio:auto; max-height:none; margin-top:-5.5%; }
+.navigation-result-title { margin-top:2rem; }
+
 @media (max-width:900px) {
   .manta-hero-flow, .robo-system-map.manta-map, .execution-flow { grid-template-columns:1fr; overflow:visible; }
   .manta-hero-flow > b, .robo-system-map.manta-map > b, .execution-flow > b { transform:rotate(90deg); justify-self:center; }
 }
 
 @media (max-width:680px) {
+  .sensor-fusion-page .candidate-visual-grid { grid-template-columns:minmax(0,1fr); }
+  .sensor-fusion-page .candidate-visual-grid article { grid-column:1; }
+  .sensor-fusion-page .credential-panel > div { padding:.85rem 1rem; }
+  .sensor-fusion-page .credential-panel dl div { padding:.65rem 1rem; }
+  .sensor-fusion-page .credential-panel strong { font-size:.9rem; }
+  .sensor-fusion-page .source-links a,.sensor-fusion-page .source-links > div { grid-template-columns:1fr; }
+  .selection-note { padding:1rem; }
   html,body { max-width:100%; overflow-x:hidden; }
   .case-hero { padding-bottom:2.5rem; }
   .case-section { padding-block:3rem; }
